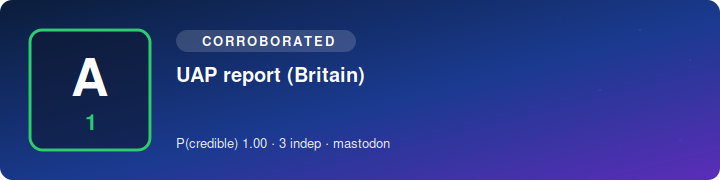
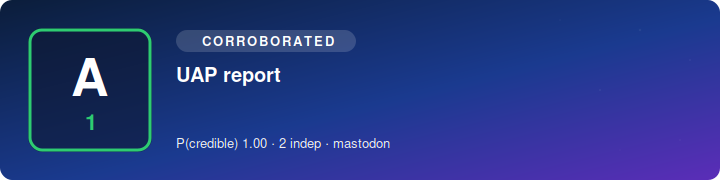
SITREP 2026-07-15 08:40 UTC

Changed region(s): [[0.3972, 0.3611, 0.5194, 0.4722], [0.3667, 0.7778, 0.3972, 0.8333]]

diff --git a/index.html b/index.html
@@ -1,1 +1,1 @@
-<!doctype html><meta charset=utf-8><title>Science Bob News — SITREP</title><style>body{font:16px/1.5 system-ui,sans-serif;max-width:760px;margin:2rem auto;padding:0 1rem;color:#111}h1{font-size:1.5rem}h2{margin-top:1.6rem;border-bottom:1px solid #ddd;padding-bottom:.2rem}ul{list-style:none;padding:0}li{margin:.9rem 0}.hl{font-weight:600}.meta{color:#555;font-size:.85rem}.src{font-size:.85rem}.vid{font-size:.85rem;margin-top:.15rem}.card{display:block;max-width:100%;height:auto;border-radius:8px;margin:.4rem 0 .5rem}.upd{background:#fde68a;padding:0 .3rem;border-radius:.2rem;font-size:.75rem}.sub{color:#777;font-size:.85rem}footer{color:#777;font-size:.8rem;margin-top:2rem;border-top:1px solid #ddd;padding-top:.6rem}</style><h1>🛸 Science Bob News</h1><div class="sub">UAP / UFO / USO SITREP · updated 2026-07-15 08:30 UTC · automated</div><h2>Corroborated</h2><ul><li><img class="card" src="https://n4hy.github.io/sciencebobnews-site/card_c_1.svg" alt="" width="720" height="180"><div class="hl">UAP report</div><div class="meta">reliability <b>A1</b> · P(credible)=1.0 · 2 independent source(s) · mastodon</div><div class="src"><a href="https://mast.lat/@MDT/116902480700455654">@MDT@mast.lat</a> · <a href="https://sociedad-noticias.com/2026/07/10/pentagono-publica-nuevos-videos-de-ovnis-difunde-el-registro-mas-nitido-de-un-uap/">@sociedad-noticias.com@sociedad-noticias.com</a></div></li><li><img class="card" src="https://n4hy.github.io/sciencebobnews-site/card_c_2.svg" alt="" width="720" height="180"><div class="hl">Official UAP statement reported</div><div class="meta">reliability <b>A1</b> · P(credible)=1.0 · 2 independent source(s) · mastodon</div><div class="src"><a href="https://infosec.exchange/@n_dimension/116912312645826158">@n_dimension@infosec.exchange</a> · <a href="https://niwego.com/display/a081e5c3-266a-513b-928c-d65439022141">@x@niwego.com</a></div></li><li><img class="card" src="https://n4hy.github.io/sciencebobnews-site/card_c_3.svg" alt="" width="720" height="180"><div class="hl">UAP report</div><div class="meta">reliability <b>A1</b> · P(credible)=1.0 · 2 independent source(s) · mastodon</div><div class="src"><a href="https://dice.camp/@DrH/116914315039635309">@DrH@dice.camp</a> · <a href="https://mastodon.au/@vibewire/116913697449886329">@vibewire@mastodon.au</a></div></li><li><img class="card" src="https://n4hy.github.io/sciencebobnews-site/card_c_4.svg" alt="" width="720" height="180"><div class="hl">UAP report</div><div class="meta">reliability <b>A1</b> · P(credible)=1.0 · 2 independent source(s) · mastodon</div><div class="src"><a href="https://spacey.space/@spaceflight/116914303734987699">@spaceflight@spacey.space</a> · <a href="https://infosec.exchange/@n_dimension/116910406370762601">@n_dimension@infosec.exchange</a></div></li></ul><h2>Developing / unconfirmed</h2><ul><li><img class="card" src="https://n4hy.github.io/sciencebobnews-site/card_d_1.svg" alt="" width="720" height="180"><div class="hl">UAP report</div><div class="meta">reliability <b>A1</b> · P(credible)=1.0 · 2 independent source(s) · mastodon</div><div class="src"><a href="https://mastodon.social/@Mathrubhumi_English/116900592270182921">@Mathrubhumi_English</a> · <a href="https://mastodon.social/@danstafford/116897275469537224">@danstafford</a></div></li><li><img class="card" src="https://n4hy.github.io/sciencebobnews-site/card_d_2.svg" alt="" width="720" height="180"><div class="hl">UAP report</div><div class="meta">reliability <b>A1</b> · P(credible)=1.0 · 1 independent source(s) · mastodon</div><div class="src"><a href="https://spacey.space/@spaceflight/116914363001474915">@spaceflight@spacey.space</a></div></li><li><img class="card" src="https://n4hy.github.io/sciencebobnews-site/card_d_3.svg" alt="" width="720" height="180"><div class="hl">Official UAP statement reported</div><div class="meta">reliability <b>A1</b> · P(credible)=1.0 · 2 independent source(s) · mastodon</div><div class="src"><a href="https://pinsapo.cc/@cypress/116897930814558805">@cypress@pinsapo.cc</a> · <a href="https://fed.brid.gy/r/https://in.mashable.com/science/111832/ufo-disclosure-2026-fourth-batch-of-40-files-released-by-department-of-war-heres-how-to-download">@in.mashable.com@web.brid.gy</a></div></li><li><img class="card" src="https://n4hy.github.io/sciencebobnews-site/card_d_4.svg" alt="" width="720" height="180"><div class="hl">UAP report (McMinnville)</div><div class="meta">reliability <b>A1</b> · P(credible)=1.0 · 1 independent source(s) · rumble</div><div class="src"><a href="https://www.youtube.com/watch?v=7OT6uJ0yzVY">@podcast</a></div><div class="vid">📹 <a href="https://www.youtube.com/watch?v=7OT6uJ0yzVY">video</a></div></li><li><img class="card" src="https://n4hy.github.io/sciencebobnews-site/card_d_5.svg" alt="" width="720" height="180"><div class="hl">UAP whistleblower testimony reported (Frank)</div><div class="meta">reliability <b>A1</b> · P(credible)=1.0 · 1 independent source(s) · rumble</div><div class="src"><a href="https://www.youtube.com/watch?v=CxvFVjJKZtA">@podcast</a></div><div class="vid">📹 <a href="https://www.youtube.com/watch?v=CxvFVjJKZtA">video</a></div></li></ul><footer><b>Powered by Science Bob News.</b> Free to use with credit (see LICENSE). Headlines are factual restatements in the engine's own words; click sources for originals. Single-origin reposts collapse to one source; prosaic candidates flagged where offered.</footer>
+<!doctype html><meta charset=utf-8><title>Science Bob News — SITREP</title><style>body{font:16px/1.5 system-ui,sans-serif;max-width:760px;margin:2rem auto;padding:0 1rem;color:#111}h1{font-size:1.5rem}h2{margin-top:1.6rem;border-bottom:1px solid #ddd;padding-bottom:.2rem}ul{list-style:none;padding:0}li{margin:.9rem 0}.hl{font-weight:600}.meta{color:#555;font-size:.85rem}.src{font-size:.85rem}.vid{font-size:.85rem;margin-top:.15rem}.card{display:block;max-width:100%;height:auto;border-radius:8px;margin:.4rem 0 .5rem}.upd{background:#fde68a;padding:0 .3rem;border-radius:.2rem;font-size:.75rem}.sub{color:#777;font-size:.85rem}footer{color:#777;font-size:.8rem;margin-top:2rem;border-top:1px solid #ddd;padding-top:.6rem}</style><h1>🛸 Science Bob News</h1><div class="sub">UAP / UFO / USO SITREP · updated 2026-07-15 08:40 UTC · automated</div><h2>Corroborated</h2><ul><li><img class="card" src="https://n4hy.github.io/sciencebobnews-site/card_c_1.svg" alt="" width="720" height="180"><div class="hl">UAP report</div><div class="meta">reliability <b>A1</b> · P(credible)=1.0 · 2 independent source(s) · mastodon</div><div class="src"><a href="https://mast.lat/@MDT/116902480700455654">@MDT@mast.lat</a> · <a href="https://sociedad-noticias.com/2026/07/10/pentagono-publica-nuevos-videos-de-ovnis-difunde-el-registro-mas-nitido-de-un-uap/">@sociedad-noticias.com@sociedad-noticias.com</a></div></li><li><img class="card" src="https://n4hy.github.io/sciencebobnews-site/card_c_2.svg" alt="" width="720" height="180"><div class="hl">Official UAP statement reported (Orlando)</div><div class="meta">reliability <b>A1</b> · P(credible)=1.0 · 2 independent source(s) · bluesky+rumble</div><div class="src"><a href="https://www.youtube.com/watch?v=hxltEtjtFKo">@podcast</a> · <a href="https://bsky.app/profile/did:plc:gncw6q3fiiidozu3ido3q3uh/post/3mqod4lfi6f2w">@did:plc:gncw6q3fiiidozu3ido3q3uh</a></div><div class="vid">📹 <a href="https://www.youtube.com/watch?v=hxltEtjtFKo">video</a></div></li><li><img class="card" src="https://n4hy.github.io/sciencebobnews-site/card_c_3.svg" alt="" width="720" height="180"><div class="hl">Official UAP statement reported</div><div class="meta">reliability <b>A1</b> · P(credible)=1.0 · 2 independent source(s) · mastodon</div><div class="src"><a href="https://infosec.exchange/@n_dimension/116912312645826158">@n_dimension@infosec.exchange</a> · <a href="https://niwego.com/display/a081e5c3-266a-513b-928c-d65439022141">@x@niwego.com</a></div></li><li><img class="card" src="https://n4hy.github.io/sciencebobnews-site/card_c_4.svg" alt="" width="720" height="180"><div class="hl">UAP report</div><div class="meta">reliability <b>A1</b> · P(credible)=1.0 · 2 independent source(s) · mastodon</div><div class="src"><a href="https://dice.camp/@DrH/116914315039635309">@DrH@dice.camp</a> · <a href="https://mastodon.au/@vibewire/116913697449886329">@vibewire@mastodon.au</a></div></li><li><img class="card" src="https://n4hy.github.io/sciencebobnews-site/card_c_5.svg" alt="" width="720" height="180"><div class="hl">UAP report</div><div class="meta">reliability <b>A1</b> · P(credible)=1.0 · 2 independent source(s) · mastodon</div><div class="src"><a href="https://spacey.space/@spaceflight/116914303734987699">@spaceflight@spacey.space</a> · <a href="https://infosec.exchange/@n_dimension/116910406370762601">@n_dimension@infosec.exchange</a></div></li></ul><h2>Developing / unconfirmed</h2><ul><li><img class="card" src="https://n4hy.github.io/sciencebobnews-site/card_d_1.svg" alt="" width="720" height="180"><div class="hl">UAP report</div><div class="meta">reliability <b>A1</b> · P(credible)=1.0 · 2 independent source(s) · mastodon</div><div class="src"><a href="https://mastodon.social/@Mathrubhumi_English/116900592270182921">@Mathrubhumi_English</a> · <a href="https://mastodon.social/@danstafford/116897275469537224">@danstafford</a></div></li><li><img class="card" src="https://n4hy.github.io/sciencebobnews-site/card_d_2.svg" alt="" width="720" height="180"><div class="hl">UAP report</div><div class="meta">reliability <b>A1</b> · P(credible)=1.0 · 1 independent source(s) · mastodon</div><div class="src"><a href="https://spacey.space/@spaceflight/116914363001474915">@spaceflight@spacey.space</a></div></li><li><img class="card" src="https://n4hy.github.io/sciencebobnews-site/card_d_3.svg" alt="" width="720" height="180"><div class="hl">Official UAP statement reported</div><div class="meta">reliability <b>A1</b> · P(credible)=1.0 · 2 independent source(s) · mastodon</div><div class="src"><a href="https://pinsapo.cc/@cypress/116897930814558805">@cypress@pinsapo.cc</a> · <a href="https://fed.brid.gy/r/https://in.mashable.com/science/111832/ufo-disclosure-2026-fourth-batch-of-40-files-released-by-department-of-war-heres-how-to-download">@in.mashable.com@web.brid.gy</a></div></li><li><img class="card" src="https://n4hy.github.io/sciencebobnews-site/card_d_4.svg" alt="" width="720" height="180"><div class="hl">UAP report (McMinnville)</div><div class="meta">reliability <b>A1</b> · P(credible)=1.0 · 1 independent source(s) · rumble</div><div class="src"><a href="https://www.youtube.com/watch?v=7OT6uJ0yzVY">@podcast</a></div><div class="vid">📹 <a href="https://www.youtube.com/watch?v=7OT6uJ0yzVY">video</a></div></li><li><img class="card" src="https://n4hy.github.io/sciencebobnews-site/card_d_5.svg" alt="" width="720" height="180"><div class="hl">UAP whistleblower testimony reported (Frank)</div><div class="meta">reliability <b>A1</b> · P(credible)=1.0 · 1 independent source(s) · rumble</div><div class="src"><a href="https://www.youtube.com/watch?v=CxvFVjJKZtA">@podcast</a></div><div class="vid">📹 <a href="https://www.youtube.com/watch?v=CxvFVjJKZtA">video</a></div></li></ul><footer><b>Powered by Science Bob News.</b> Free to use with credit (see LICENSE). Headlines are factual restatements in the engine's own words; click sources for originals. Single-origin reposts collapse to one source; prosaic candidates flagged where offered.</footer>

diff --git a/sitrep.md b/sitrep.md
@@ -1,5 +1,5 @@
 # 🛸 Science Bob News — UAP / UFO / USO SITREP
-*Updated 2026-07-15 08:30 UTC · auto-generated · sources credited & linked · reliability ratings are automated, not editorial*
+*Updated 2026-07-15 08:40 UTC · auto-generated · sources credited & linked · reliability ratings are automated, not editorial*
 
 ## Corroborated
 
@@ -8,18 +8,24 @@
    reliability **A1** · P(credible)=1.0 · 2 independent source(s) · mastodon  
    [@MDT@mast.lat](https://mast.lat/@MDT/116902480700455654) · [@sociedad-noticias.com@sociedad-noticias.com](https://sociedad-noticias.com/2026/07/10/pentagono-publica-nuevos-videos-de-ovnis-difunde-el-registro-mas-nitido-de-un-uap/)
 
-![Official UAP statement reported](https://n4hy.github.io/sciencebobnews-site/card_c_2.svg)
-2. **Official UAP statement reported**  
+![Official UAP statement reported (Orlando)](https://n4hy.github.io/sciencebobnews-site/card_c_2.svg)
+2. **Official UAP statement reported (Orlando)**  
+   reliability **A1** · P(credible)=1.0 · 2 independent source(s) · bluesky+rumble  
+   [@podcast](https://www.youtube.com/watch?v=hxltEtjtFKo) · [@did:plc:gncw6q3fiiidozu3ido3q3uh](https://bsky.app/profile/did:plc:gncw6q3fiiidozu3ido3q3uh/post/3mqod4lfi6f2w)  
+   📹 [video](https://www.youtube.com/watch?v=hxltEtjtFKo)
+
+![Official UAP statement reported](https://n4hy.github.io/sciencebobnews-site/card_c_3.svg)
+3. **Official UAP statement reported**  
    reliability **A1** · P(credible)=1.0 · 2 independent source(s) · mastodon  
    [@n_dimension@infosec.exchange](https://infosec.exchange/@n_dimension/116912312645826158) · [@x@niwego.com](https://niwego.com/display/a081e5c3-266a-513b-928c-d65439022141)
 
-![UAP report](https://n4hy.github.io/sciencebobnews-site/card_c_3.svg)
-3. **UAP report**  
+![UAP report](https://n4hy.github.io/sciencebobnews-site/card_c_4.svg)
+4. **UAP report**  
    reliability **A1** · P(credible)=1.0 · 2 independent source(s) · mastodon  
    [@DrH@dice.camp](https://dice.camp/@DrH/116914315039635309) · [@vibewire@mastodon.au](https://mastodon.au/@vibewire/116913697449886329)
 
-![UAP report](https://n4hy.github.io/sciencebobnews-site/card_c_4.svg)
-4. **UAP report**  
+![UAP report](https://n4hy.github.io/sciencebobnews-site/card_c_5.svg)
+5. **UAP report**  
    reliability **A1** · P(credible)=1.0 · 2 independent source(s) · mastodon  
    [@spaceflight@spacey.space](https://spacey.space/@spaceflight/116914303734987699) · [@n_dimension@infosec.exchange](https://infosec.exchange/@n_dimension/116910406370762601)
 
